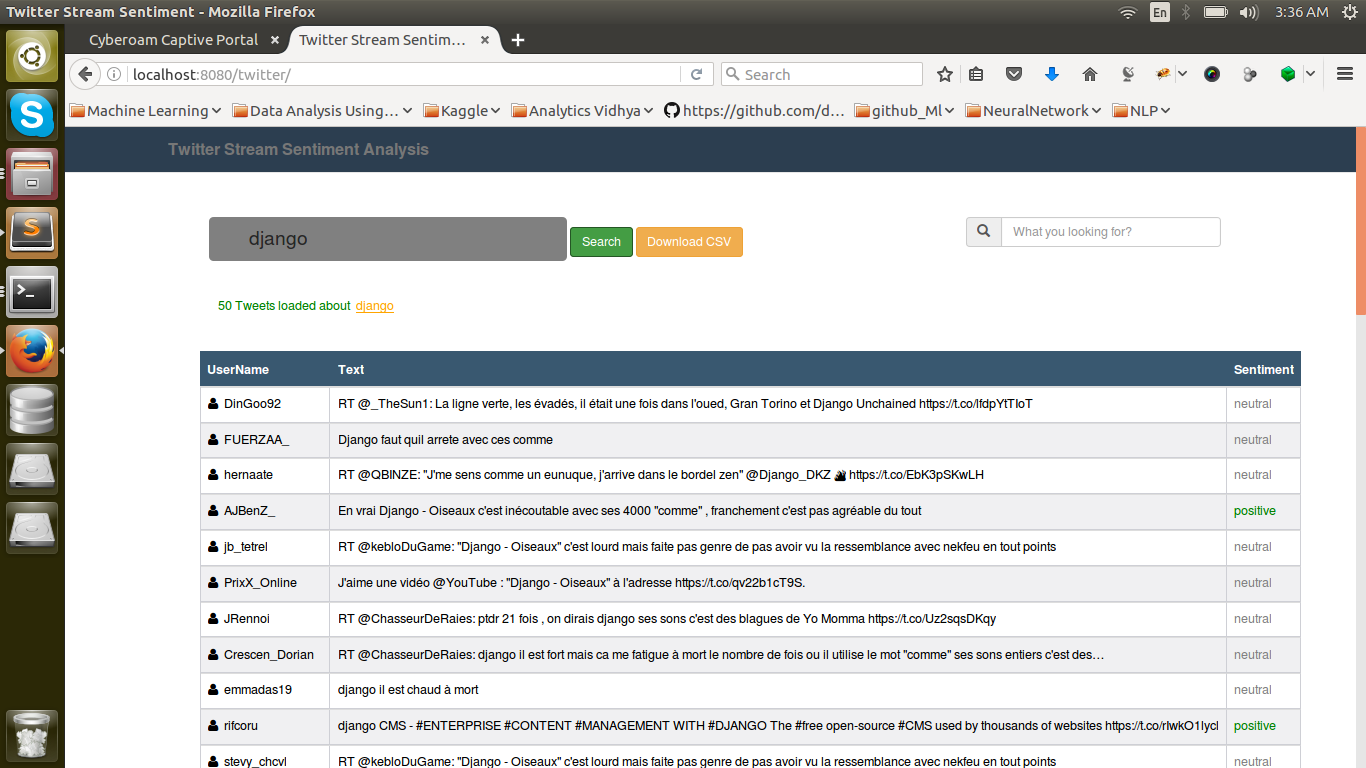
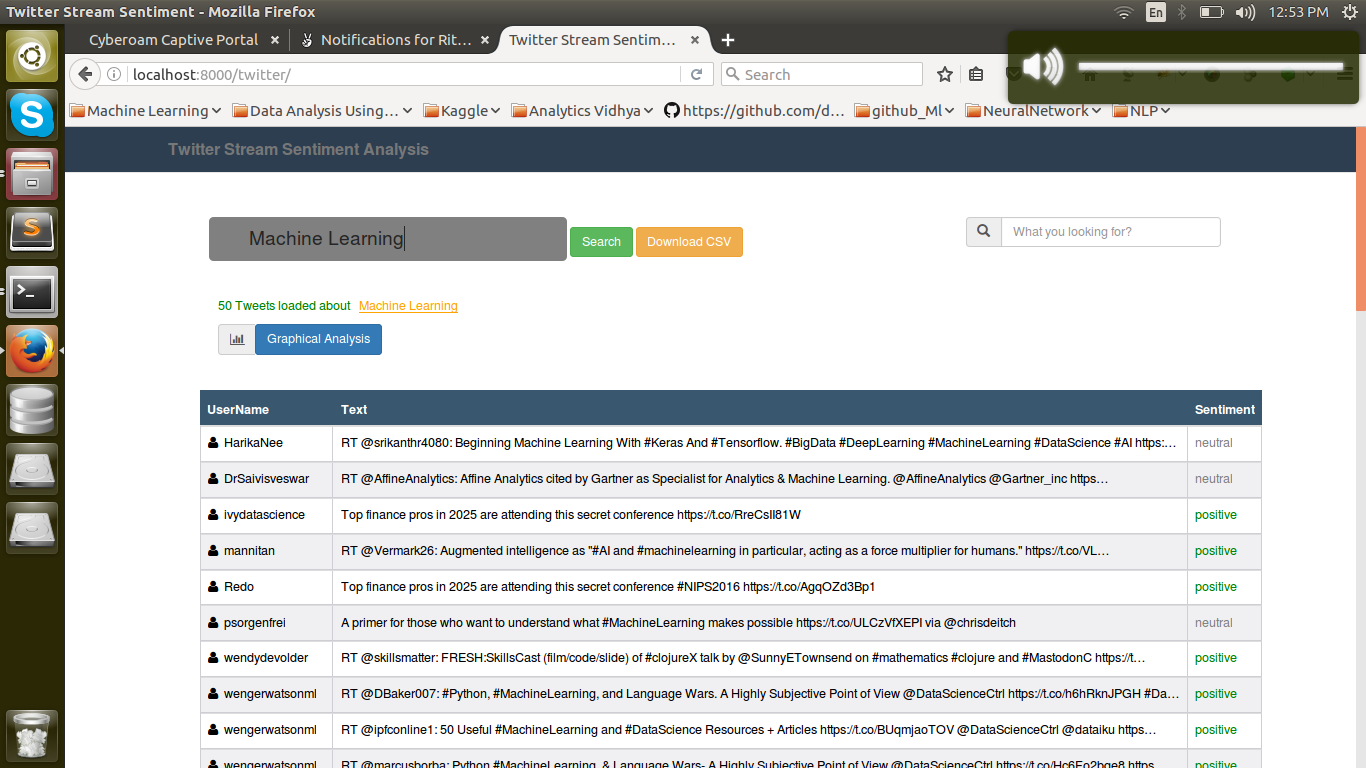
added screenshot

diff --git a/twitter_sentiment/static/js/tweets.js b/twitter_sentiment/static/js/tweets.js
@@ -29,7 +29,19 @@ function load_tweets(entered_text){
 
 		        	container.html(contents);
 		        	$('#search').val(entered_text);
-		        	$('#loading').html("<p class='tweets_loading'>" + data['count'] + " Tweets loaded about&nbsp;&nbsp;<span style='text-decoration:underline;color:orange;'>"+ entered_text + "</span></p>");
+		        	$('#loading').html("<p class='tweets_loading'>" 
+		        						+ data['count'] 
+		        						+ " Tweets loaded about&nbsp;&nbsp;\
+		        						<span style='text-decoration:underline;\
+		        						color:orange;'>"
+		        						+ entered_text + "</span></p>\
+		        						<div class='col-md-3 input-group \
+		        						form-group'>\
+		        						<span class='input-group-addon'>\
+		        						<i class='fa fa-bar-chart'></i>\
+		        						</span><input class='btn btn-primary pull-right' type='button' data-toggle='modal' data-target='#plot-graph' class='filter form-control'\
+		        						value='Graphical Analysis'></div>");
+		        	$('#plot_graph').html();
 				}	    
 	    	}
 

diff --git a/twitter_sentiment/templates/home.html b/twitter_sentiment/templates/home.html
@@ -25,11 +25,30 @@
 				<button class="btn btn-success" id="input-search">Search</button>
 				<button id="getcsv" class="btn btn-warning">Download CSV</button>
 				<div id="loading">Loading...</span></div>
+				<div id="plot_graph"></div>
 				<div id="tweets"></div>
 			</div>	
 
 			
 		</div>
+	</div>
+
+	<!--plotting graph-->
+	<div class="modal fade" id="plot-graph">
+        <div class="modal-dialog" role="document">
+            <div class="modal-content">
+                <div class="modal-header">
+                    <h4 class="modal-title" style="padding:10px;margin-top:10px;">
+                    	Graphical Analysis
+                    </h4>
+                     <button type="button" style="float:right;" class="close" data-dismiss="modal"><span aria-hidden="true">&times;</span></button>
+                   
+                </div>
+
+                <div class="modal-body"></div>
+
+            </div><!-- /.modal-content -->
+        </div><!-- /.modal-dialog -->
 	</div>
 	
 {% endblock %}

diff --git a/twitter_sentiment/static/css/home.css b/twitter_sentiment/static/css/home.css
@@ -79,3 +79,6 @@ body{
 
 }
 
+.btn-plot-graph{
+  margin-right:-100px;
+}

diff --git a/twitter_sentiment/twitter_sentiment/urls.py b/twitter_sentiment/twitter_sentiment/urls.py
@@ -18,8 +18,6 @@ from django.contrib import admin
 
 urlpatterns = [
     url(r'^admin/', admin.site.urls),
+    # tweet url
     url(r'^twitter/', include('sentiment.urls',namespace="sentiment")),
-    # url(r'^$','twitter_sentiment.views.home',name='home'),
-    # url(r'^$','sentiment.views.home',name='home'),
-    # url(r'^tweets/$','sentiment.views.tweets',name='tweets'),
 ]
